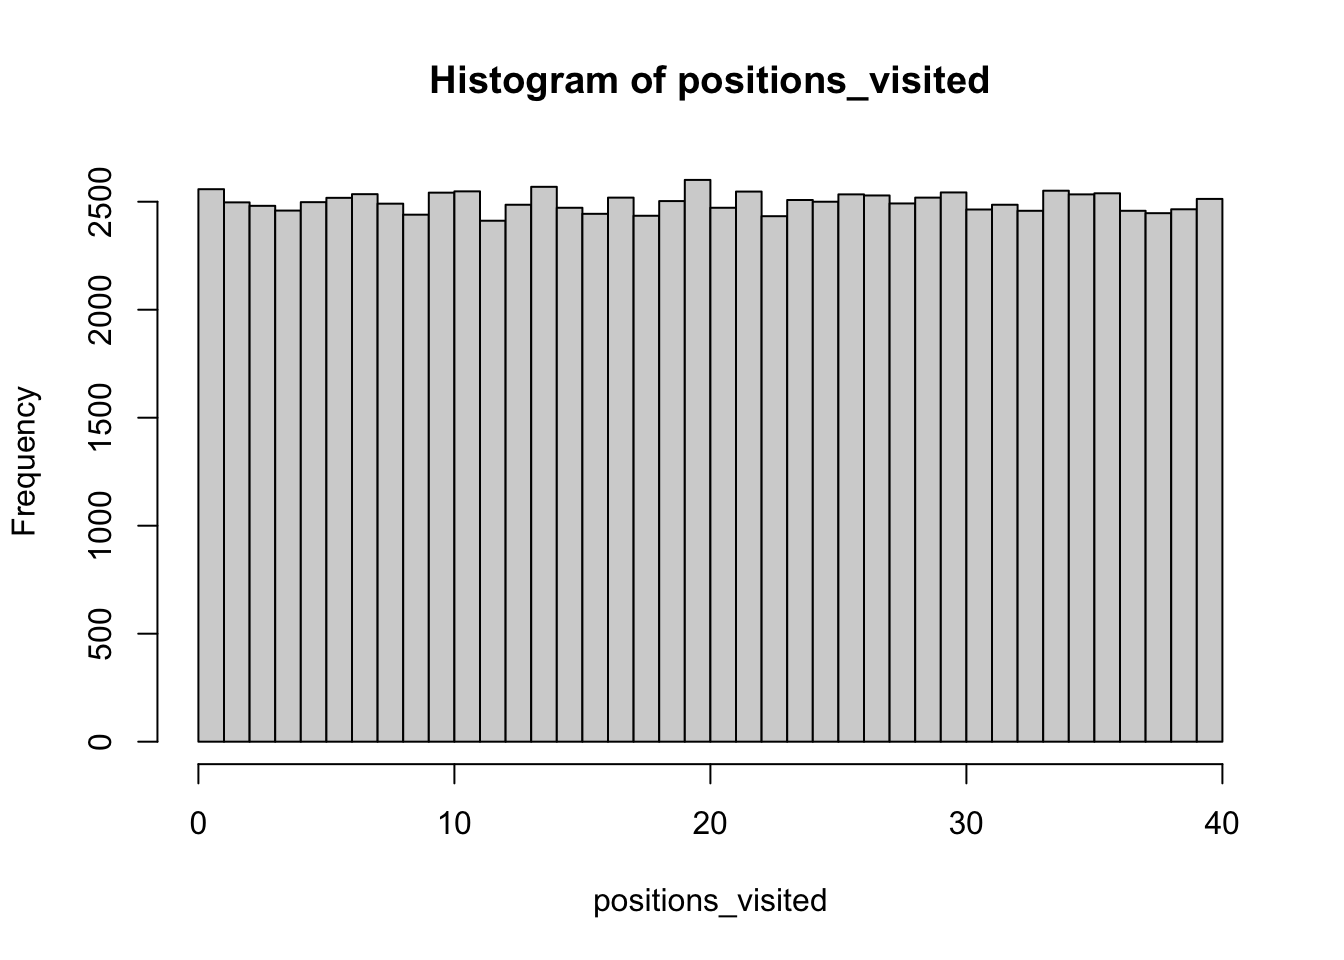
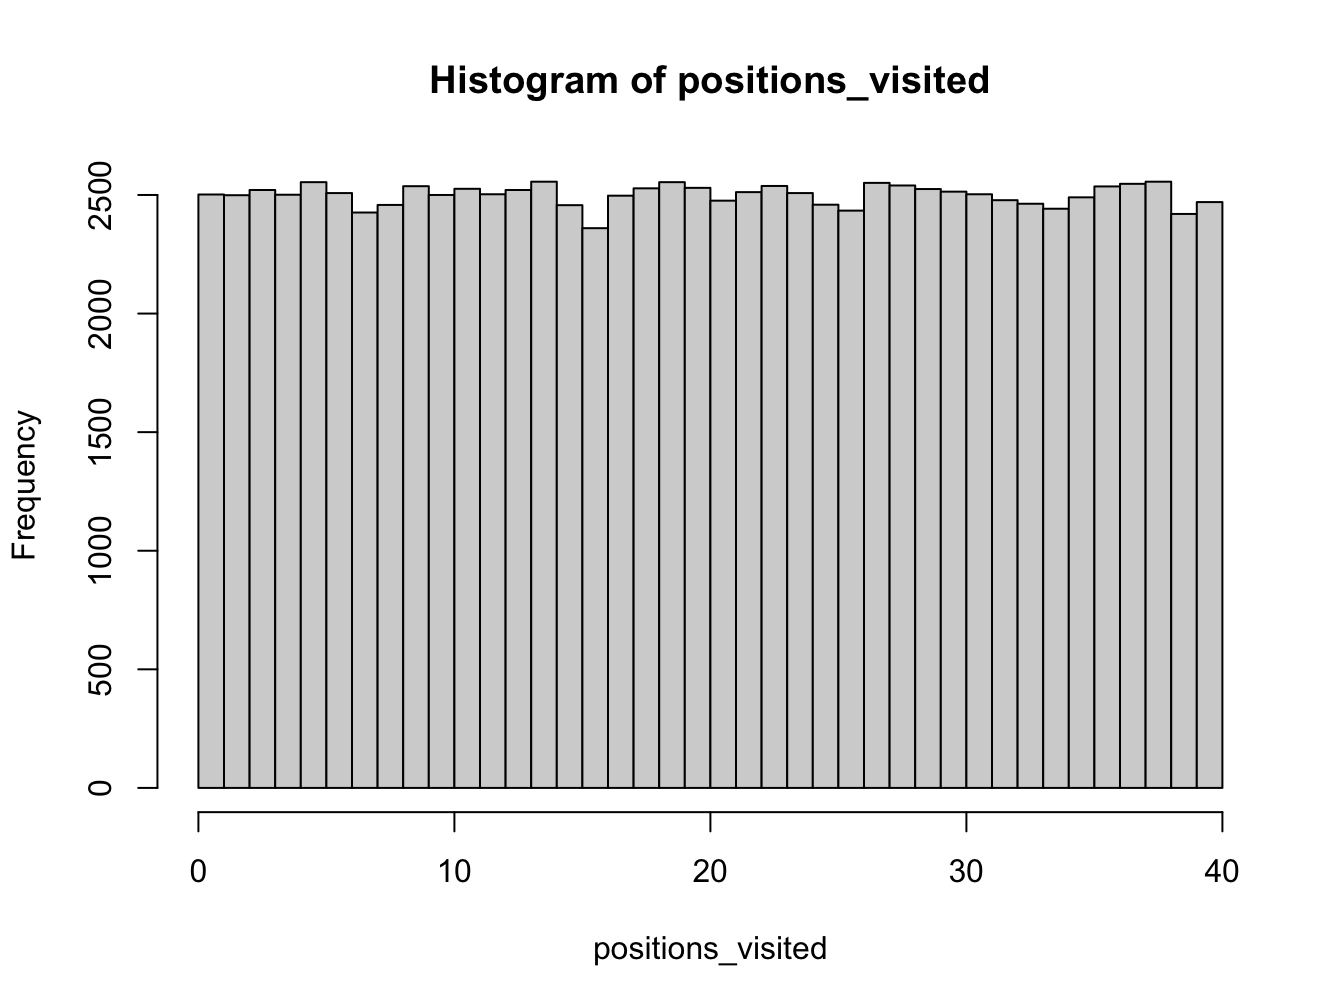
fig commands updated

diff --git a/docs/markov-chains.html b/docs/markov-chains.html
@@ -73,7 +73,7 @@
 <li><p>A current state probability distribution: defines the probability of being in any one of the states at the start of the process</p></li>
 </ol>
 <p>Consider the following example where we have two states describing the weather on any particular day: (i) Sunny and (ii) Rainy. Each arrow denotes the probability of going from one state to itself or another over the course of a day. For example, if it is currently sunny, the probability of it raining the next day is 0.6. Conversely, if it is raining, the probability that it will become sunny the next day is 0.7 and 0.3 that it will continue raining.</p>
-<div class="inline-figure"><img src="04-markov-chains_files/figure-html/unnamed-chunk-1-1.png" width="90%"></div>
+<div class="inline-figure"><img src="04-markov-chains_files/figure-html/unnamed-chunk-1-1.png" width="90%" style="display: block; margin: auto;"></div>
 <p>The transition matrix can be written as the following in R:</p>
 <div class="sourceCode" id="cb8"><pre class="downlit sourceCode r">
 <code class="sourceCode R"><span><span class="va">transitionMatrix</span> <span class="op">=</span> <span class="fu"><a href="https://rdrr.io/r/base/matrix.html">matrix</a></span><span class="op">(</span><span class="fu"><a href="https://rdrr.io/r/base/c.html">c</a></span><span class="op">(</span><span class="fl">0.4</span>, <span class="fl">0.6</span>, <span class="fl">0.7</span>, <span class="fl">0.3</span><span class="op">)</span>, nrow<span class="op">=</span><span class="fl">2</span>, ncol<span class="op">=</span><span class="fl">2</span>, byrow<span class="op">=</span><span class="cn">TRUE</span><span class="op">)</span></span>
@@ -97,13 +97,13 @@
 <span></span>
 <span><span class="co"># print the simulated weather sequence</span></span>
 <span><span class="fu"><a href="https://rdrr.io/r/base/print.html">print</a></span><span class="op">(</span><span class="va">weather_sequence</span><span class="op">)</span></span>
-<span><span class="co">#&gt;  [1] 1 2 1 1 1 2 1 1 2 1 2 2 2 1 2 1 2 1 1 2 2 1 2 1 1 2 1 2</span></span>
-<span><span class="co">#&gt; [29] 2 1</span></span></code></pre></div>
+<span><span class="co">#&gt;  [1] 2 2 1 2 1 2 1 1 1 2 1 2 1 1 1 2 1 2 2 1 1 2 2 1 1 1 1 2</span></span>
+<span><span class="co">#&gt; [29] 2 2</span></span></code></pre></div>
 <p><strong>Problem</strong></p>
 <blockquote>
 <p>Can you extend this example to a three-state model?</p>
 </blockquote>
-<div class="inline-figure"><img src="04-markov-chains_files/figure-html/unnamed-chunk-4-1.png" width="90%"></div>
+<div class="inline-figure"><img src="04-markov-chains_files/figure-html/unnamed-chunk-4-1.png" width="90%" style="display: block; margin: auto;"></div>
 <p>Note, the diagram (intentionally) misses out the self-transitions. You should be able to infer this because the probabilities given would otherwise not add up to one!</p>
 <div id="model-answers-3-state-markov-chain" class="section level2 unnumbered">
 <h2>Model answers 3 state Markov Chain<a class="anchor" aria-label="anchor" href="#model-answers-3-state-markov-chain"><i class="fas fa-link"></i></a>
@@ -134,7 +134,7 @@
 <span>  <span class="va">weather_sequence</span><span class="op">[</span><span class="va">day</span><span class="op">]</span> <span class="op">&lt;-</span> <span class="va">state</span> <span class="co"># store the sampled state</span></span>
 <span><span class="op">}</span></span>
 <span><span class="fu"><a href="https://rdrr.io/r/base/print.html">print</a></span><span class="op">(</span><span class="va">weather_sequence</span><span class="op">)</span></span>
-<span><span class="co">#&gt;  [1] 1 1 1 1 2 1 1 1 2 3 1 1 3 1 1 1 2 2 3 1 1 2 1 1 2 3 3 1</span></span>
+<span><span class="co">#&gt;  [1] 1 2 2 1 1 1 2 3 3 3 3 1 1 3 2 2 1 1 1 1 1 1 1 2 2 3 1 1</span></span>
 <span><span class="co">#&gt; [29] 1 1</span></span></code></pre></div>
 </div>
 <div id="a-monopoly-simulation" class="section level2" number="2.1">
@@ -181,7 +181,7 @@
 <p>By increasing the number of turns taken, what distribution does the set of simulated board positions converge towards? Show this graphically using the histogram function.</p>
 <div class="sourceCode" id="cb13"><pre class="downlit sourceCode r">
 <code class="sourceCode R"><span><span class="fu"><a href="https://rdrr.io/r/graphics/hist.html">hist</a></span><span class="op">(</span><span class="va">positions_visited</span>, breaks <span class="op">=</span> <span class="fu"><a href="https://rdrr.io/r/base/seq.html">seq</a></span><span class="op">(</span><span class="fl">0</span>, <span class="fl">40</span>, len <span class="op">=</span> <span class="fl">41</span><span class="op">)</span>, right <span class="op">=</span> <span class="cn">FALSE</span><span class="op">)</span></span></code></pre></div>
-<div class="inline-figure"><img src="04-markov-chains_files/figure-html/unnamed-chunk-8-1.png" width="672"></div>
+<div class="inline-figure"><img src="04-markov-chains_files/figure-html/unnamed-chunk-8-1.png" width="80%" style="display: block; margin: auto;"></div>
 </div>
 <div id="going-to-jail" class="section level2" number="2.3">
 <h2>
@@ -229,7 +229,7 @@
 </blockquote>
 <div class="sourceCode" id="cb15"><pre class="downlit sourceCode r">
 <code class="sourceCode R"><span><span class="fu"><a href="https://rdrr.io/r/graphics/hist.html">hist</a></span><span class="op">(</span><span class="va">positions_visited</span>, breaks <span class="op">=</span> <span class="fu"><a href="https://rdrr.io/r/base/seq.html">seq</a></span><span class="op">(</span><span class="fl">0</span>, <span class="fl">40</span>, len <span class="op">=</span> <span class="fl">41</span><span class="op">)</span>, right <span class="op">=</span> <span class="cn">FALSE</span><span class="op">)</span></span></code></pre></div>
-<div class="inline-figure"><img src="04-markov-chains_files/figure-html/unnamed-chunk-10-1.png" width="672"></div>
+<div class="inline-figure"><img src="04-markov-chains_files/figure-html/unnamed-chunk-10-1.png" width="80%" style="display: block; margin: auto;"></div>
 <blockquote>
 <p>Can you explain this result qualitatively?</p>
 </blockquote>
@@ -297,7 +297,7 @@
 <span></span>
 <span></span>
 <span><span class="fu"><a href="https://rdrr.io/r/graphics/hist.html">hist</a></span><span class="op">(</span><span class="va">positions_visited</span>, breaks <span class="op">=</span> <span class="fu"><a href="https://rdrr.io/r/base/seq.html">seq</a></span><span class="op">(</span><span class="fl">0</span>, <span class="fl">40</span>, len <span class="op">=</span> <span class="fl">41</span><span class="op">)</span>, right <span class="op">=</span> <span class="cn">FALSE</span><span class="op">)</span></span></code></pre></div>
-<div class="inline-figure"><img src="04-markov-chains_files/figure-html/unnamed-chunk-11-1.png" width="672"></div>
+<div class="inline-figure"><img src="04-markov-chains_files/figure-html/unnamed-chunk-11-1.png" width="80%" style="display: block; margin: auto;"></div>
 <p>Adding the rolling doubles feature doesn’t seem to change much. We might expect this since rolling three doubles is a very unlikely event!</p>
 </div>
 <div id="further-exercises" class="section level2" number="2.4">
@@ -388,7 +388,7 @@
 <span><span class="op">}</span></span>
 <span></span>
 <span><span class="fu"><a href="https://rdrr.io/r/graphics/hist.html">hist</a></span><span class="op">(</span><span class="va">time_to_buy_all_properties</span>, breaks <span class="op">=</span> <span class="fl">20</span><span class="op">)</span></span></code></pre></div>
-<div class="inline-figure"><img src="04-markov-chains_files/figure-html/unnamed-chunk-12-1.png" width="672"></div>
+<div class="inline-figure"><img src="04-markov-chains_files/figure-html/unnamed-chunk-12-1.png" width="80%" style="display: block; margin: auto;"></div>
 
 </div>
 </div>

diff --git a/docs/getting-started-in-r-and-rstudio.html b/docs/getting-started-in-r-and-rstudio.html
@@ -73,13 +73,9 @@
 <span class="header-section-number">0.3</span> Creating an R script<a class="anchor" aria-label="anchor" href="#creating-an-r-script"><i class="fas fa-link"></i></a>
 </h2>
 <p>It is easy to create a new script in RStudio. You can open a new empty script by clicking the New File icon in the upper left of the main RStudio toolbar. This icon looks like a white square with a white plus sign in a green circle. Clicking the icon opens the New File Menu. Click the R Script menu option and the script editor will open with an empty script.</p>
-<div class="inline-figure">
-<img src="images/rs-new-file.png"><!-- -->
-</div>
+<div class="inline-figure"><img src="images/rs-new-file.png" width="80%" style="display: block; margin: auto;"></div>
 <p>Once the new script opens in the Script Editor panel, the script is ready for text entry, and your RStudio session will look like this.</p>
-<div class="inline-figure">
-<img src="images/rs-file-open.png"><!-- -->
-</div>
+<div class="inline-figure"><img src="images/rs-file-open.png" width="80%" style="display: block; margin: auto;"></div>
 <p>Here is an easy example to familiarize you with the Script Editor interface. Type the following code into your new script <em>(later topics will explain the specific code components do)</em>.</p>
 <div class="sourceCode" id="cb1"><pre class="downlit sourceCode r">
 <code class="sourceCode R"><span>    <span class="co"># this is my first R script</span></span>
@@ -100,9 +96,7 @@
 <span>    <span class="va">y</span></span>
 <span>    <span class="va">z</span></span>
 <span>    <span class="va">w</span></span></code></pre></div>
-<div class="inline-figure">
-<img src="images/rs-file-content.png"><!-- -->
-</div>
+<div class="inline-figure"><img src="images/rs-file-content.png" width="80%" style="display: block; margin: auto;"></div>
 <p>There, you now have your first R script. Notice how the editor places a number in front of each line of code. The line numbers can be helpful as you work with your code. Before proceeding on to executing this code, it would be a good idea to learn how to save your script.</p>
 </div>
 <div id="saving-an-r-script" class="section level2" number="0.4">
@@ -110,9 +104,7 @@
 <span class="header-section-number">0.4</span> Saving an R script<a class="anchor" aria-label="anchor" href="#saving-an-r-script"><i class="fas fa-link"></i></a>
 </h2>
 <p>You can save your script by clicking on the Save icon at the top of the Script Editor panel. When you do that, a Save File dialog will open.</p>
-<div class="inline-figure">
-<img src="images/rs-save.png"><!-- -->
-</div>
+<div class="inline-figure"><img src="images/rs-save.png" width="80%" style="display: block; margin: auto;"></div>
 </div>
 <div id="executing-code-in-an-r-script" class="section level2" number="0.5">
 <h2>
@@ -121,18 +113,14 @@
 <p>You can run the code in your R script easily. The Run button in the Script Editor panel toolbar will run either the current line of code or any block of selected code. You can use your First script.R code to gain familiarity with this functionality.</p>
 <p>Place the cursor anywhere in line 3 of your script <span class="math display">\[x = 34\]</span>. Now press the Run button in the Script Editor panel toolbar. Three things happen: 1) the code is transferred to the command console, 2) the code is executed, and 3) the cursor moves to the next line in your script. Press the Run button three more times. RStudio executes lines 4, 5, and 6 of your script.</p>
 <p>Now you will run a set of code commands all at once. Highlight lines 8, 9, 10, and 11 in the script.</p>
-<div class="inline-figure">
-<img src="images/rs-run.png"><!-- -->
-</div>
+<div class="inline-figure"><img src="images/rs-run.png" width="80%" style="display: block; margin: auto;"></div>
 <p>Highlighting is accomplished similar to what you may be familiar with in word processor applications. You click your left mouse button and the beginning of the text you want to highlight, you hold the mouse button and drag the cursor to the end of the text and release the button. With those four lines of code highlighted, click the editor Run button. All four lines of code are executed in the command console. That is all it takes to run script code in RStudio.</p>
 <div id="comments-in-an-r-script-documenting-your-code" class="section level3" number="0.5.1">
 <h3>
 <span class="header-section-number">0.5.1</span> Comments in an R script (documenting your code)<a class="anchor" aria-label="anchor" href="#comments-in-an-r-script-documenting-your-code"><i class="fas fa-link"></i></a>
 </h3>
 <p>Before finishing this topic, there is one final concept you should understand. It is always a good idea to place comments in your code. They will help you understand what your code is meant to do. This will become helpful when you reopen code you wrote weeks ago and are trying to work with again. The saying, “Real programmers do not document their code. If it was hard to write, it should be hard to understand” is meant to be a dark joke, not a coding style guide.</p>
-<div class="inline-figure">
-<img src="images/rs-comment.png"><!-- -->
-</div>
+<div class="inline-figure"><img src="images/rs-comment.png" width="80%" style="display: block; margin: auto;"></div>
 <p>A comment in R code begins with the <code>#</code> symbol. Your code in First <code>script.R</code> contains several examples of comments. Lines <code>1</code>, <code>2</code>, <code>7</code>, <code>12</code>, and <code>14</code> in the image above are all comment lines. Any line of text that starts with <code>#</code> will be treated as a comment and will be ignored during code execution. Lines <code>5</code> and <code>6</code> in this image contain comments at the end. All text after the <code>#</code> is treated as a comment and is ignored during execution.</p>
 <p>Notice how the RStudio editor shows these comments colored green. The green color helps you focus on the code and not get confused by the comments.</p>
 <p>Besides using comments to help make your <code>R</code> code more easily understood, you can use the <code>#</code> symbol to ignore lines of code while you are developing your code stream. Simply place a <code>#</code> in front of any line that you want to ignore. <code>R</code> will treat those lines as comments and ignore them. When you want to include those lines again in the code execution, remove the <code>#</code> symbols and the code is executable again. This technique allows you to change what code you execute without having to retype deleted code.</p>

diff --git a/docs/simulating-random-numbers.html b/docs/simulating-random-numbers.html
@@ -74,7 +74,7 @@
 <p>Lets plot a histogram of the values picked:</p>
 <div class="sourceCode" id="cb4"><pre class="downlit sourceCode r">
 <code class="sourceCode R"><span><span class="va">hist_out</span> <span class="op">&lt;-</span> <span class="fu"><a href="https://rdrr.io/r/graphics/hist.html">hist</a></span><span class="op">(</span><span class="va">out</span>, main <span class="op">=</span> <span class="st">''</span>, xlab <span class="op">=</span> <span class="st">'Values'</span>, ylab <span class="op">=</span> <span class="st">'Frequency'</span><span class="op">)</span></span></code></pre></div>
-<div class="inline-figure"><img src="03-simulation_files/figure-html/unnamed-chunk-3-1.png" width="672"></div>
+<div class="inline-figure"><img src="03-simulation_files/figure-html/unnamed-chunk-3-1.png" width="80%" style="display: block; margin: auto;"></div>
 <p>We picked each number with equal probability so the histogram shows each number is equally likely to have been chosen.</p>
 <p><strong>Problem</strong></p>
 <div class="rmdnote">
@@ -101,12 +101,12 @@
 <span><span class="fu"><a href="https://rdrr.io/r/base/table.html">table</a></span><span class="op">(</span><span class="va">rolls_from_sample</span><span class="op">)</span></span>
 <span><span class="co">#&gt; rolls_from_sample</span></span>
 <span><span class="co">#&gt;   1   2   3   4   5   6 </span></span>
-<span><span class="co">#&gt; 806 833 815 852 850 844</span></span></code></pre></div>
+<span><span class="co">#&gt; 832 821 794 873 849 831</span></span></code></pre></div>
 <div class="sourceCode" id="cb7"><pre class="downlit sourceCode r">
 <code class="sourceCode R"><span><span class="fu"><a href="https://rdrr.io/r/base/table.html">table</a></span><span class="op">(</span><span class="va">rolls_from_sample.int</span><span class="op">)</span></span>
 <span><span class="co">#&gt; rolls_from_sample.int</span></span>
 <span><span class="co">#&gt;   1   2   3   4   5   6 </span></span>
-<span><span class="co">#&gt; 813 864 825 813 832 853</span></span></code></pre></div>
+<span><span class="co">#&gt; 816 853 842 876 811 802</span></span></code></pre></div>
 <p>Both gives a uniform distribution over the numbers 1-6. The function <code>sample.int</code> is a specialised version of sample for sampling integers. Many <code>R</code> libraries have specialised versions of more general functions to do specific tasks under certain conditions.</p>
 
 </div>

diff --git a/docs/01-intro.md b/docs/01-intro.md
@@ -11,11 +11,11 @@ While entering and running your code at the R command line is effective and simp
 
 It is easy to create a new script in RStudio. You can open a new empty script by clicking the New File icon in the upper left of the main RStudio toolbar. This icon looks like a white square with a white plus sign in a green circle. Clicking the icon opens the New File Menu. Click the R Script menu option and the script editor will open with an empty script.
 
-![](images/rs-new-file.png)<!-- -->
+<img src="images/rs-new-file.png" width="80%" style="display: block; margin: auto;" />
 
 Once the new script opens in the Script Editor panel, the script is ready for text entry, and your RStudio session will look like this.
 
-![](images/rs-file-open.png)<!-- -->
+<img src="images/rs-file-open.png" width="80%" style="display: block; margin: auto;" />
 
 Here is an easy example to familiarize you with the Script Editor interface. Type the following code into your new script *(later topics will explain the specific code components do)*.
 
@@ -41,7 +41,7 @@ Here is an easy example to familiarize you with the Script Editor interface. Typ
     w
 ```
 
-![](images/rs-file-content.png)<!-- -->
+<img src="images/rs-file-content.png" width="80%" style="display: block; margin: auto;" />
 
 There, you now have your first R script. Notice how the editor places a number in front of each line of code. The line numbers can be helpful as you work with your code. Before proceeding on to executing this code, it would be a good idea to learn how to save your script.
 
@@ -49,7 +49,7 @@ There, you now have your first R script. Notice how the editor places a number i
 
 You can save your script by clicking on the Save icon at the top of the Script Editor panel. When you do that, a Save File dialog will open.
 
-![](images/rs-save.png)<!-- -->
+<img src="images/rs-save.png" width="80%" style="display: block; margin: auto;" />
 
 ## Executing code in an R script
 
@@ -59,7 +59,7 @@ Place the cursor anywhere in line 3 of your script \[x = 34\]. Now press the Run
 
 Now you will run a set of code commands all at once. Highlight lines 8, 9, 10, and 11 in the script.
 
-![](images/rs-run.png)<!-- -->
+<img src="images/rs-run.png" width="80%" style="display: block; margin: auto;" />
 
 Highlighting is accomplished similar to what you may be familiar with in word processor applications. You click your left mouse button and the beginning of the text you want to highlight, you hold the mouse button and drag the cursor to the end of the text and release the button. With those four lines of code highlighted, click the editor Run button. All four lines of code are executed in the command console. That is all it takes to run script code in RStudio.
 
@@ -67,7 +67,7 @@ Highlighting is accomplished similar to what you may be familiar with in word pr
 
 Before finishing this topic, there is one final concept you should understand. It is always a good idea to place comments in your code. They will help you understand what your code is meant to do. This will become helpful when you reopen code you wrote weeks ago and are trying to work with again. The saying, "Real programmers do not document their code. If it was hard to write, it should be hard to understand" is meant to be a dark joke, not a coding style guide.
 
-![](images/rs-comment.png)<!-- -->
+<img src="images/rs-comment.png" width="80%" style="display: block; margin: auto;" />
 
 A comment in R code begins with the `#` symbol. Your code in First `script.R` contains several examples of comments. Lines `1`, `2`, `7`, `12`, and `14` in the image above are all comment lines. Any line of text that starts with `#` will be treated as a comment and will be ignored during code execution. Lines `5` and `6` in this image contain comments at the end. All text after the `#` is treated as a comment and is ignored during execution.
 

diff --git a/docs/04-markov-chains.md b/docs/04-markov-chains.md
@@ -18,7 +18,7 @@ A Markov Chain is defined by three properties:
 
 Consider the following example where we have two states describing the weather on any particular day: (i) Sunny and (ii) Rainy. Each arrow denotes the probability of going from one state to itself or another over the course of a day. For example, if it is currently sunny, the probability of it raining the next day is 0.6. Conversely, if it is raining, the probability that it will become sunny the next day is 0.7 and 0.3 that it will continue raining.
 
-<img src="04-markov-chains_files/figure-html/unnamed-chunk-1-1.png" width="90%" />
+<img src="04-markov-chains_files/figure-html/unnamed-chunk-1-1.png" width="90%" style="display: block; margin: auto;" />
 
 The transition matrix can be written as the following in R:
 
@@ -50,8 +50,8 @@ for (day in 1:30) { # simulate for 30 days
 
 # print the simulated weather sequence
 print(weather_sequence)
-#>  [1] 1 2 1 1 1 2 1 1 2 1 2 2 2 1 2 1 2 1 1 2 2 1 2 1 1 2 1 2
-#> [29] 2 1
+#>  [1] 2 2 1 2 1 2 1 1 1 2 1 2 1 1 1 2 1 2 2 1 1 2 2 1 1 1 1 2
+#> [29] 2 2
 ```
 
 
@@ -59,7 +59,7 @@ print(weather_sequence)
 
 > Can you extend this example to a three-state model?
 
-<img src="04-markov-chains_files/figure-html/unnamed-chunk-4-1.png" width="90%" />
+<img src="04-markov-chains_files/figure-html/unnamed-chunk-4-1.png" width="90%" style="display: block; margin: auto;" />
 
 Note, the diagram (intentionally) misses out the self-transitions. You should be able to infer this because the probabilities given would otherwise not add up to one!
 
@@ -97,7 +97,7 @@ for (day in 1:30) {
   weather_sequence[day] <- state # store the sampled state
 }
 print(weather_sequence)
-#>  [1] 1 1 1 1 2 1 1 1 2 3 1 1 3 1 1 1 2 2 3 1 1 2 1 1 2 3 3 1
+#>  [1] 1 2 2 1 1 1 2 3 3 3 3 1 1 3 2 2 1 1 1 1 1 1 1 2 2 3 1 1
 #> [29] 1 1
 ```
 
@@ -151,7 +151,7 @@ By increasing the number of turns taken, what distribution does the set of simul
 hist(positions_visited, breaks = seq(0, 40, len = 41), right = FALSE)
 ```
 
-<img src="04-markov-chains_files/figure-html/unnamed-chunk-8-1.png" width="672" />
+<img src="04-markov-chains_files/figure-html/unnamed-chunk-8-1.png" width="80%" style="display: block; margin: auto;" />
 
 ## Going to Jail
 
@@ -203,7 +203,7 @@ for (turn in 1:num_turns) {
 hist(positions_visited, breaks = seq(0, 40, len = 41), right = FALSE)
 ```
 
-<img src="04-markov-chains_files/figure-html/unnamed-chunk-10-1.png" width="672" />
+<img src="04-markov-chains_files/figure-html/unnamed-chunk-10-1.png" width="80%" style="display: block; margin: auto;" />
 
 
 
@@ -278,7 +278,7 @@ for (turn in 1:num_turns) {
 hist(positions_visited, breaks = seq(0, 40, len = 41), right = FALSE)
 ```
 
-<img src="04-markov-chains_files/figure-html/unnamed-chunk-11-1.png" width="672" />
+<img src="04-markov-chains_files/figure-html/unnamed-chunk-11-1.png" width="80%" style="display: block; margin: auto;" />
 
 Adding the rolling doubles feature doesn't seem to change much. We might expect this since rolling three doubles is a very unlikely event!
 
@@ -373,4 +373,4 @@ for (game in 1:num_games) {
 hist(time_to_buy_all_properties, breaks = 20)
 ```
 
-<img src="04-markov-chains_files/figure-html/unnamed-chunk-12-1.png" width="672" />
+<img src="04-markov-chains_files/figure-html/unnamed-chunk-12-1.png" width="80%" style="display: block; margin: auto;" />

diff --git a/docs/03-simulation.md b/docs/03-simulation.md
@@ -28,7 +28,7 @@ Lets plot a histogram of the values picked:
 hist_out <- hist(out, main = '', xlab = 'Values', ylab = 'Frequency')
 ```
 
-<img src="03-simulation_files/figure-html/unnamed-chunk-3-1.png" width="672" />
+<img src="03-simulation_files/figure-html/unnamed-chunk-3-1.png" width="80%" style="display: block; margin: auto;" />
 
 We picked each number with equal probability so the histogram shows each number is equally likely to have been chosen.
 
@@ -64,7 +64,7 @@ rolls_from_sample.int = sample(6, size=5000, replace=TRUE)
 table(rolls_from_sample)
 #> rolls_from_sample
 #>   1   2   3   4   5   6 
-#> 806 833 815 852 850 844
+#> 832 821 794 873 849 831
 ```
 
 
@@ -72,7 +72,7 @@ table(rolls_from_sample)
 table(rolls_from_sample.int)
 #> rolls_from_sample.int
 #>   1   2   3   4   5   6 
-#> 813 864 825 813 832 853
+#> 816 853 842 876 811 802
 ```
 
 Both gives a uniform distribution over the numbers 1-6. The function `sample.int` is a specialised version of sample for sampling integers. Many `R` libraries have specialised versions of more general functions to do specific tasks under certain conditions.
